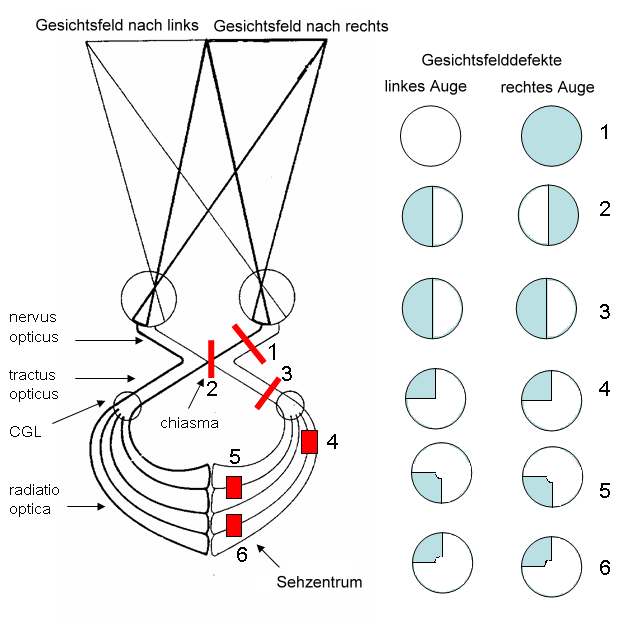
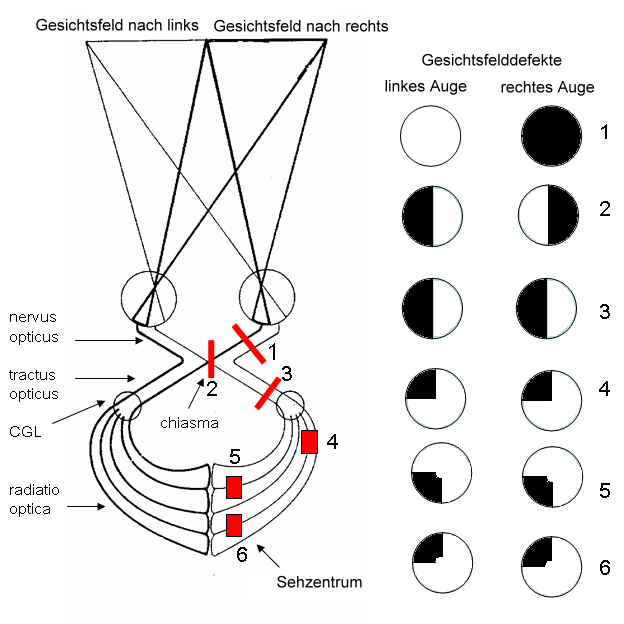
Ausfälle im Gesichtsfeld farblich besser dargestellt

diff --git a/M11_13_6_Visuelles_System_II.tex b/M11_13_6_Visuelles_System_II.tex
@@ -1116,7 +1116,7 @@ Aktivierungsmuster von On- und Off-Bipolarzellen und On- und Off-Ganglienzellen.
 Aufbau von Stäbchen und Zapfen. Meine Übersetzung aus dem Französichen von Pancrat, CC BY-SA 3.0 \url{https://creativecommons.org/licenses/by-sa/3.0}, via Wikimedia Commons
 
 \item
-Ausfälle im Gesichtsfeld bei Schäden entlang der Sehbahn. Albert Kok at Dutch Wikipedia, Public domain, via Wikimedia Commons
+Ausfälle im Gesichtsfeld bei Schäden entlang der Sehbahn. Von mir verändert (Gesichtsfelder unterschidelich eingefärbt) nach Albert Kok at Dutch Wikipedia, Public domain, via Wikimedia Commons. 
  
 \item
 Diagramm mit mehreren Farben und wie es sich für Menschen mit Schwaächen im Farbsehen darstellt. By Grolltech - Own work, CC BY-SA 3.0, \url{https://commons.wikimedia.org/w/index.php?curid=22912023}
